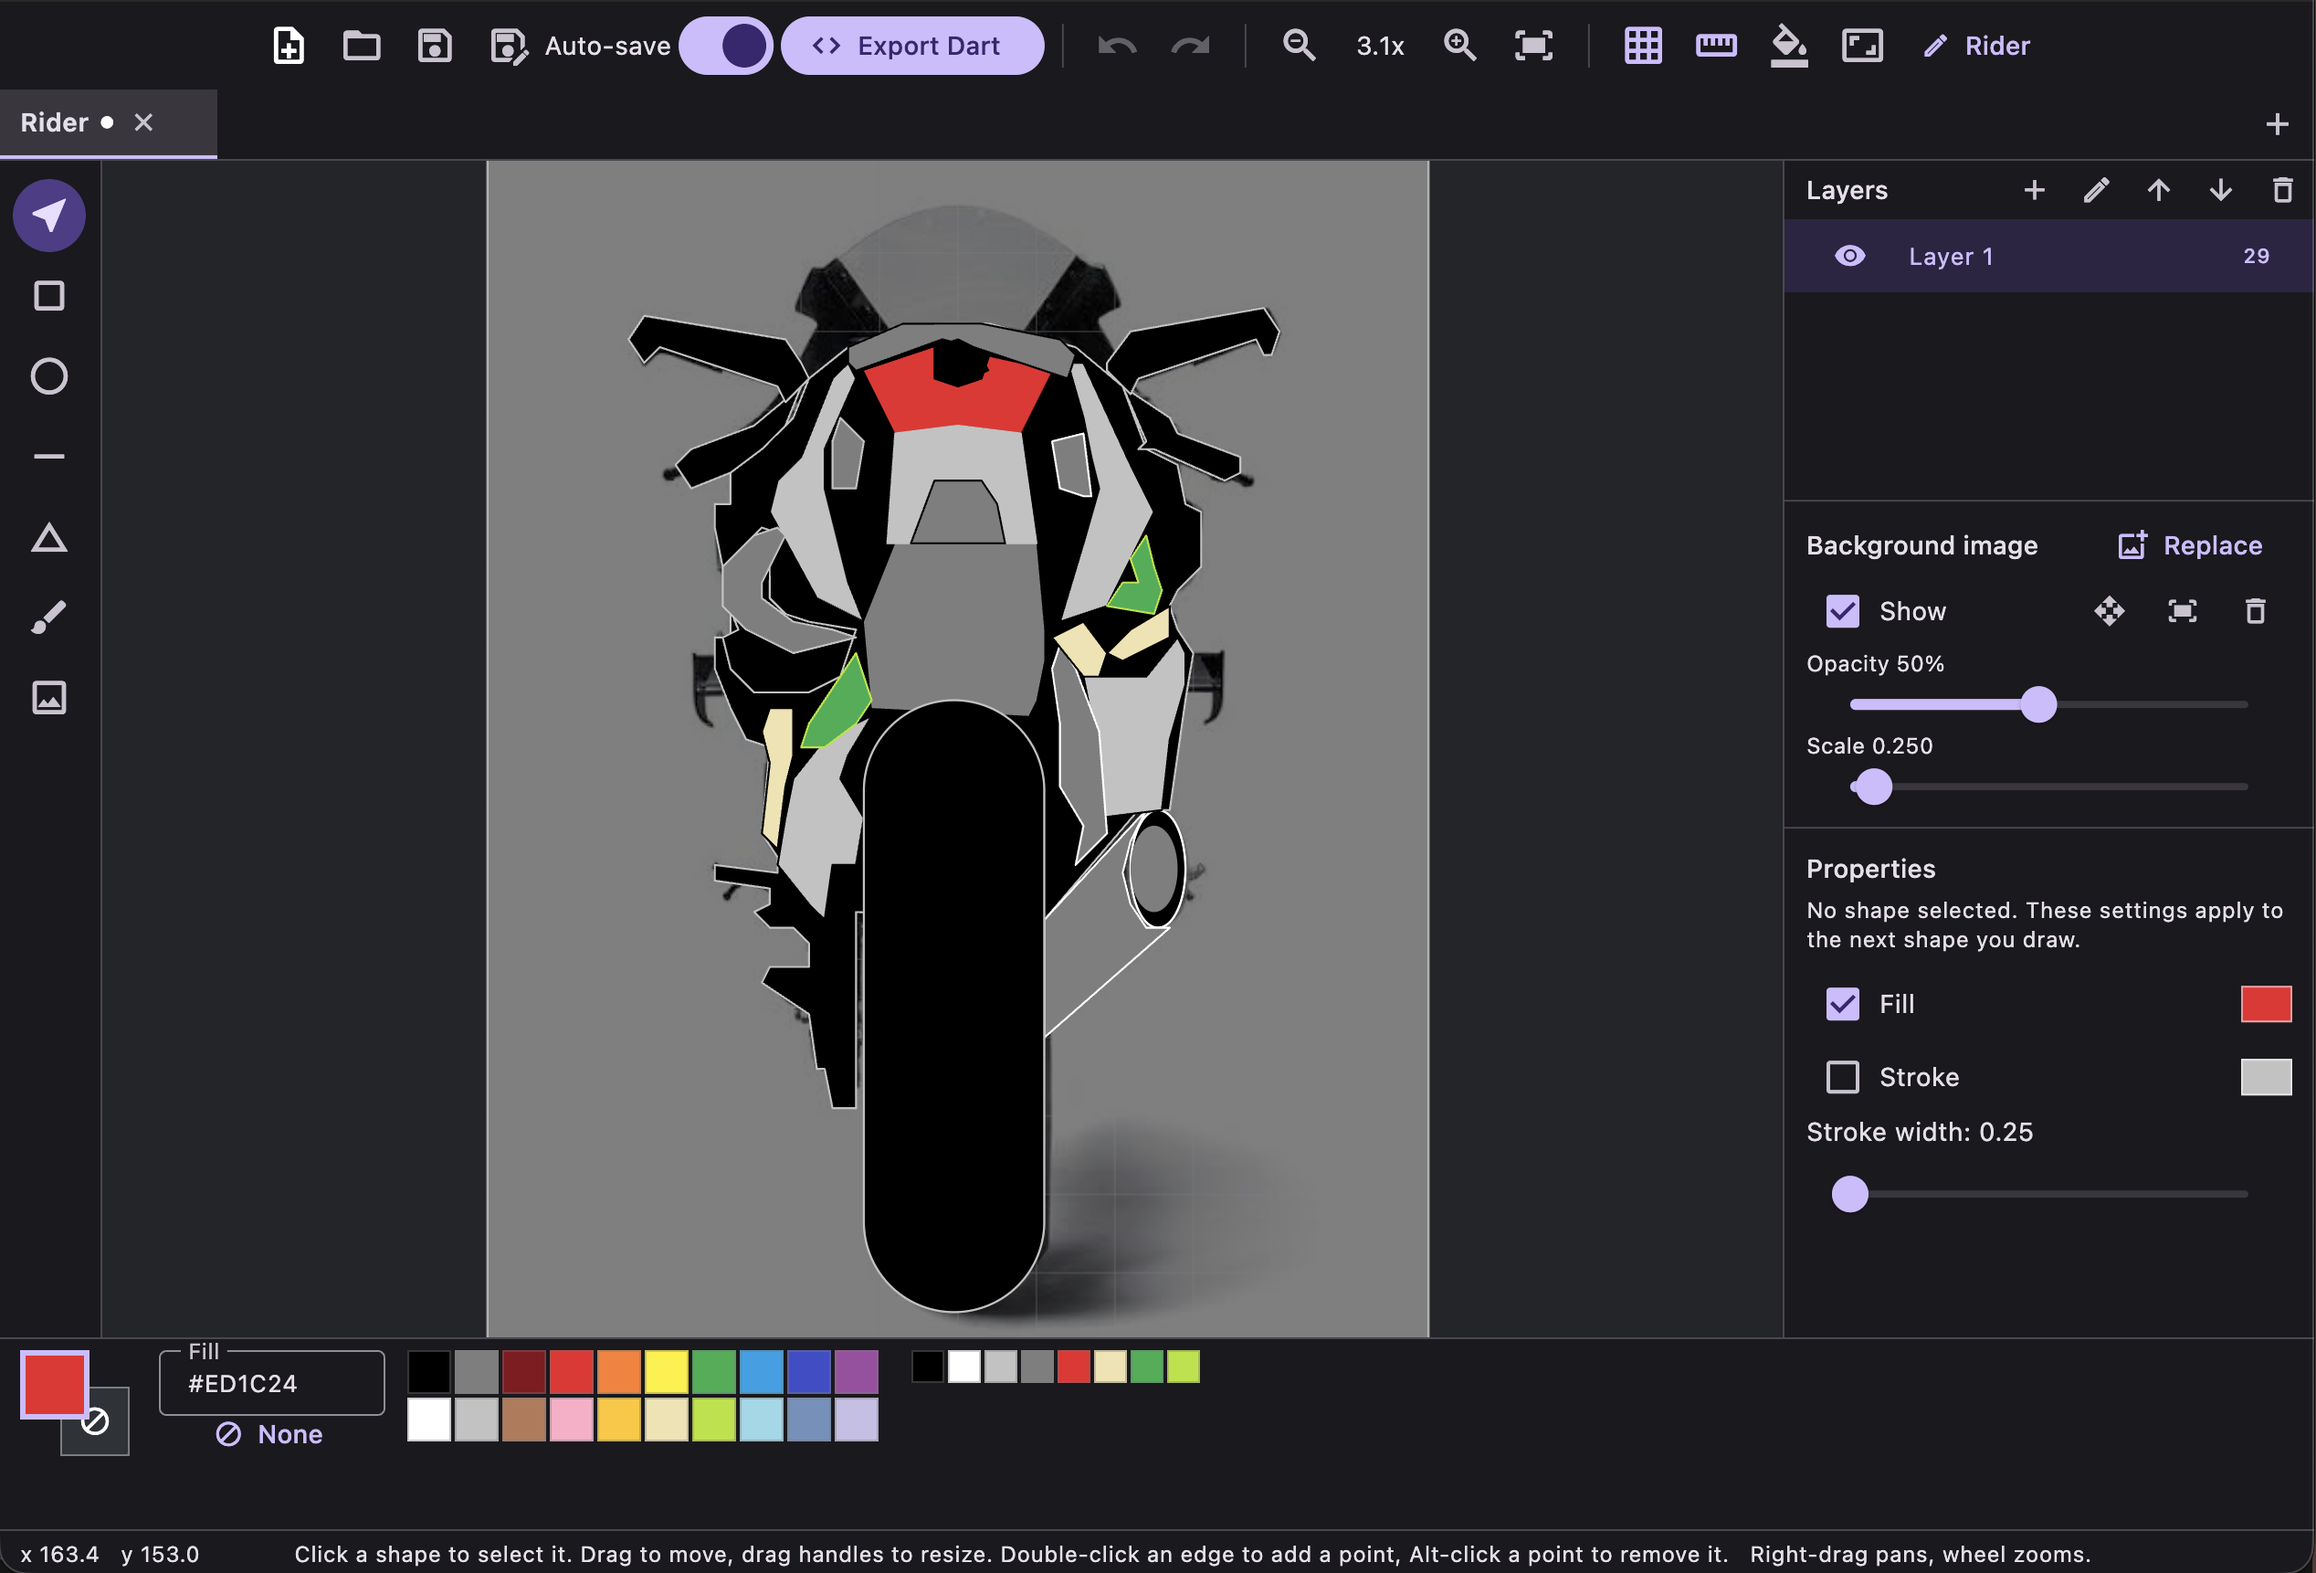
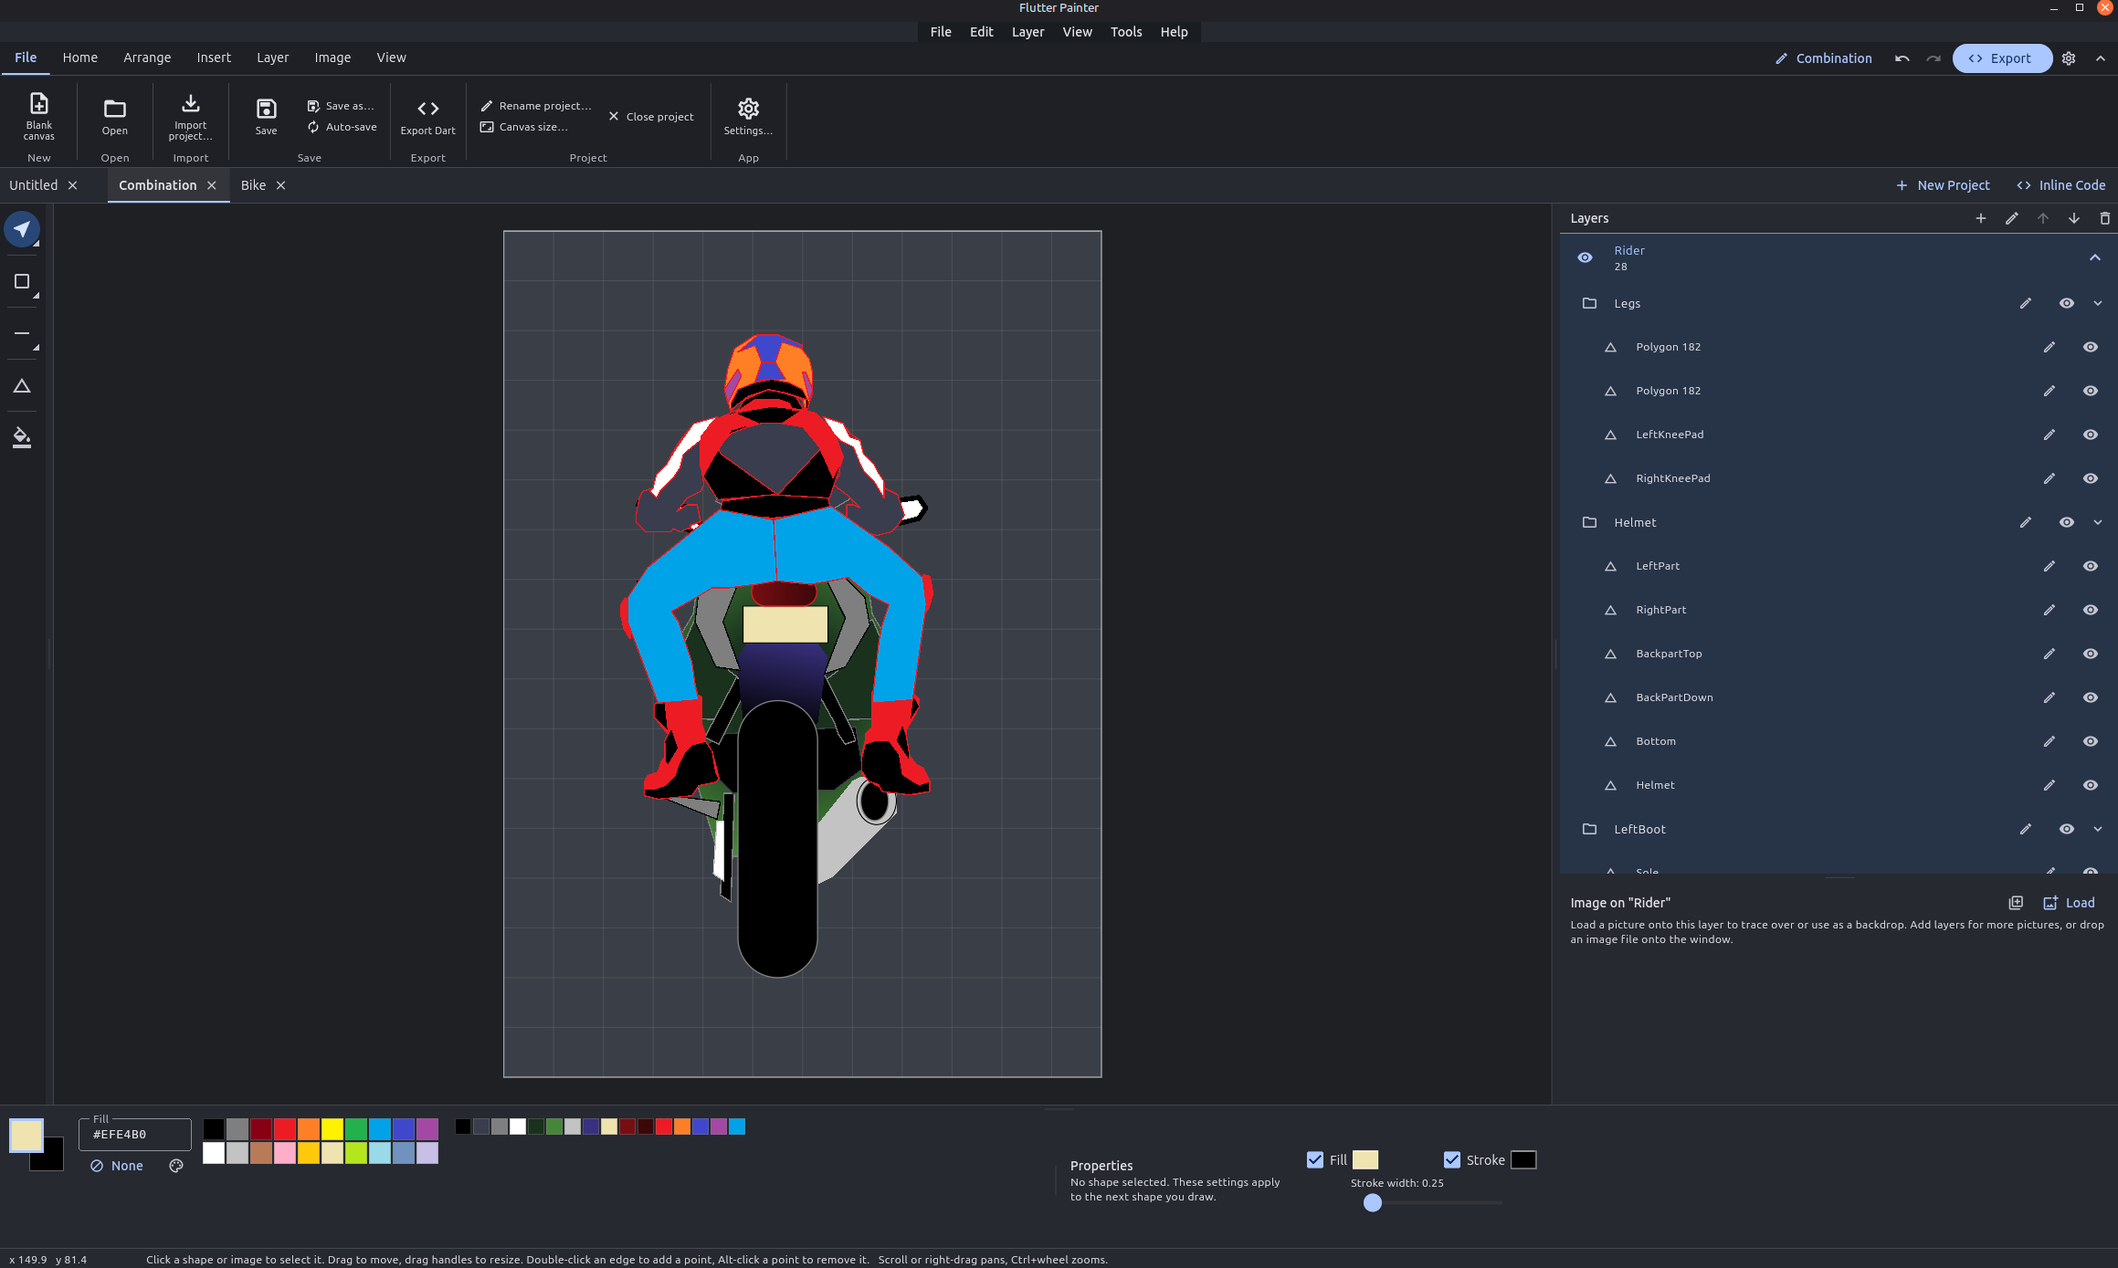
new screenwhots

diff --git a/README.md b/README.md
@@ -4,7 +4,8 @@ Flutter Painter is a desktop vector drawing app for making artwork and exporting
 it as Dart code. Draw with shapes and paths, arrange them on layers, and use the
 generated `dart:ui` painter in a Flutter project.
 
-![Flutter Painter screenshot](./screenshots/image1.png)
+![Flutter Painter screenshot1](./screenshots/image1.png)
+![Flutter Painter screenshot2](./screenshots/image2.png)
 
 ## Features
 
